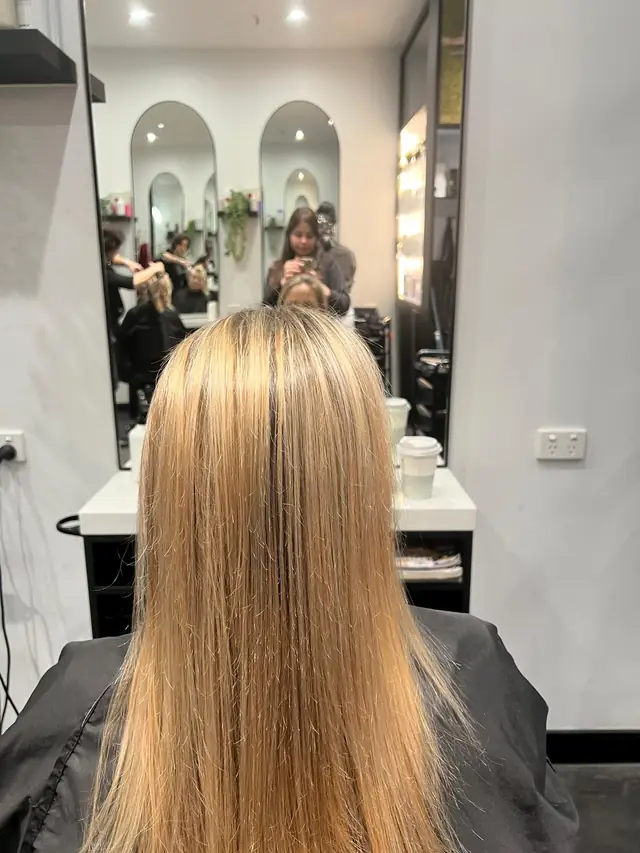
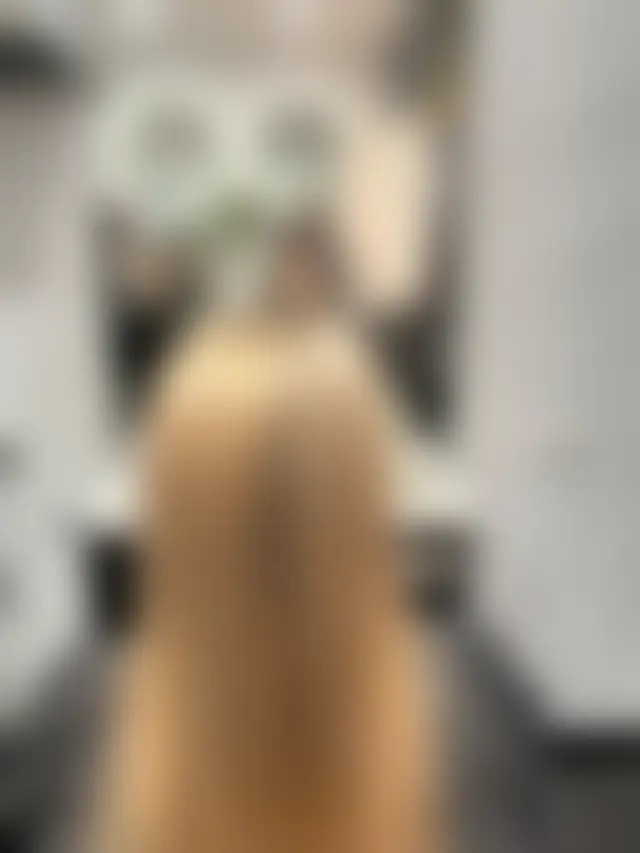
Show full menu (only About + The Work linked, rest muted) + blur work images
- Nav/footer list all pages; non-linked items rendered as muted spans (.nav__na)

- Work-section images (home teaser + gallery) blurred; originals kept in data/img/backup

diff --git a/resources/css/app.css b/resources/css/app.css
@@ -94,6 +94,9 @@ a { color: inherit; text-decoration: none; }
 .nav.is-stuck .nav__links a:hover { color: var(--ink); }
 .nav__links a.is-active { color: var(--accent); }
 .nav.is-stuck .nav__links a.is-active, .nav--solid .nav__links a.is-active { color: var(--accent); }
+/* Menu items shown but not yet linked. */
+.nav__links .nav__na { font-size: 13px; white-space: nowrap; cursor: default; color: rgba(255, 255, 255, .5); text-shadow: 0 1px 12px rgba(0, 0, 0, .5); }
+.nav.is-stuck .nav__links .nav__na, .nav--solid .nav__links .nav__na { color: var(--ink-faint); text-shadow: none; }
 
 /* Solid nav for pages without a dark hero (About, Shop, Gallery). */
 .nav--solid { background: color-mix(in srgb, var(--ground) 90%, transparent); backdrop-filter: blur(14px); border-bottom: 1px solid var(--line); }
@@ -273,6 +276,7 @@ a { color: inherit; text-decoration: none; }
 .footer__logo { height: clamp(42px, 6vw, 64px); width: auto; display: block; }
 .footer__cols { display: flex; gap: 56px; flex-wrap: wrap; }
 .footer__col a, .footer__col p { display: block; color: var(--ink-soft); font-size: 14px; margin: 0 0 10px; }
+.footer__col span { display: block; color: var(--ink-faint); font-size: 14px; margin: 0 0 10px; }
 .footer__col a:hover { color: var(--ink); }
 .footer__col h4 { font-size: 12px; letter-spacing: .16em; text-transform: uppercase; color: var(--ink-faint); margin: 0 0 16px; font-weight: 600; }
 .footer__bar { display: flex; justify-content: space-between; gap: 20px; margin-top: 50px; padding-top: 24px; border-top: 1px solid var(--line); font-size: 12.5px; color: var(--ink-faint); flex-wrap: wrap; }

diff --git a/resources/views/partials/nav.blade.php b/resources/views/partials/nav.blade.php
@@ -4,9 +4,14 @@
         <img class="nav__logo" src="{{ asset('images/logo.png') }}" alt="Classic Cuts &amp; Colors" width="256" height="88">
     </a>
 
+    {{-- Full menu shown, but only About & The Work are linked for now. --}}
     <div class="nav__links">
-        <a href="{{ route('about') }}" @class(['is-active' => request()->routeIs('about')])>About</a>
+        <span class="nav__na">Services</span>
         <a href="{{ route('gallery') }}" @class(['is-active' => request()->routeIs('gallery')])>The Work</a>
+        <a href="{{ route('about') }}" @class(['is-active' => request()->routeIs('about')])>About</a>
+        <span class="nav__na">Shop</span>
+        <span class="nav__na">Gift Cards</span>
+        <span class="nav__na">Visit</span>
     </div>
 
     <x-book />

diff --git a/resources/views/partials/footer.blade.php b/resources/views/partials/footer.blade.php
@@ -8,8 +8,12 @@
             <div class="footer__cols">
                 <div class="footer__col">
                     <h4>Explore</h4>
-                    <a href="{{ route('about') }}">About</a>
+                    <span>Services</span>
                     <a href="{{ route('gallery') }}">The Work</a>
+                    <a href="{{ route('about') }}">About</a>
+                    <span>Shop</span>
+                    <span>Gift Cards</span>
+                    <span>Visit</span>
                 </div>
 
                 <div class="footer__col">
